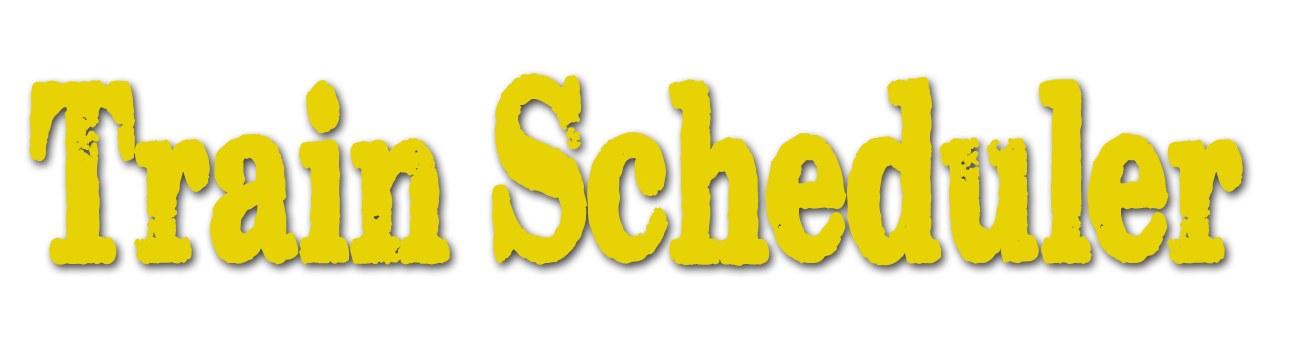
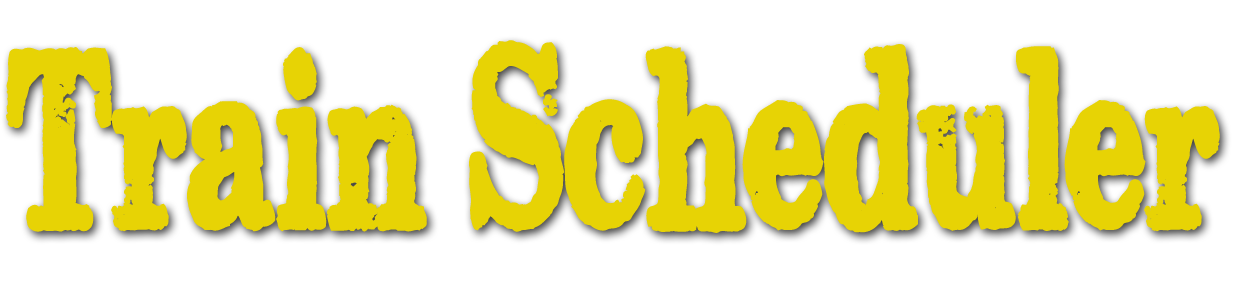
last minute addition of a clear database button

diff --git a/index.html b/index.html
@@ -17,7 +17,7 @@
 
 <body>
     <div class="container">
-        <div>
+        <div class="trainTitle">
             <img class="img-responsive" src="assets/images/train_title.png" alt="Train Title">
         </div>
         <div class="row">
@@ -65,6 +65,7 @@
                                 <input class="form-control" name="frequency" id="frequency" type="number" min="1">
                             </div>
                             <button type="submit" class="btn" id="submit">Submit</button>
+                            <button class="btn" id="clearDB">Clear</button>
                         </form>
                     </div>
                 </div>

diff --git a/assets/javascript/logic.js b/assets/javascript/logic.js
@@ -47,6 +47,15 @@ $("#submit").on("click", function() {     // upon click of submit button
   
 });
 
+$("#clearDB").on("click", function() {     // upon click of submit button
+  var emptyFirebase = confirm("Are you sure you want to clear out the database? Once you have the train has left station and there is no going back.");
+
+  if (emptyFirebase) {
+    trainRef.remove();
+  }
+  
+});
+
 //Create Firebase event when adding train to the database then add a row in the html table
 database.ref("/trainData").on("child_added", function(childSnapshot, prevChildKey) {
 

diff --git a/assets/css/style.css b/assets/css/style.css
@@ -36,3 +36,14 @@ body {
 	color: #fff;
 	border: 1px solid #e7d305;
 }
+
+#clearDB {
+	float: right;
+	background-color: #000;
+	color: #fff;
+	border: 1px solid #000;
+}
+
+.trainTitle {
+	margin-top: -2em;
+}
